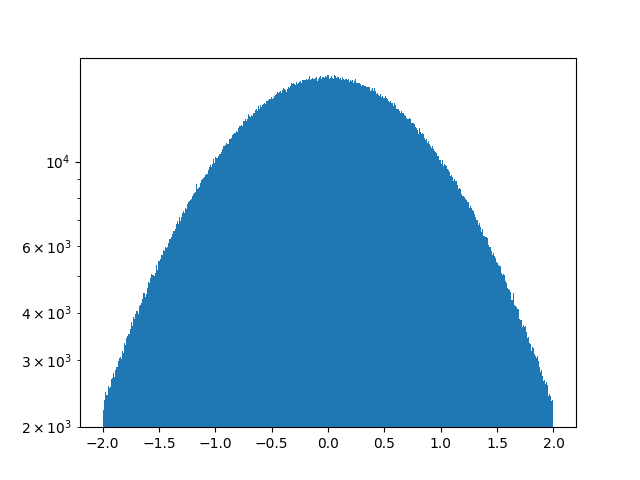
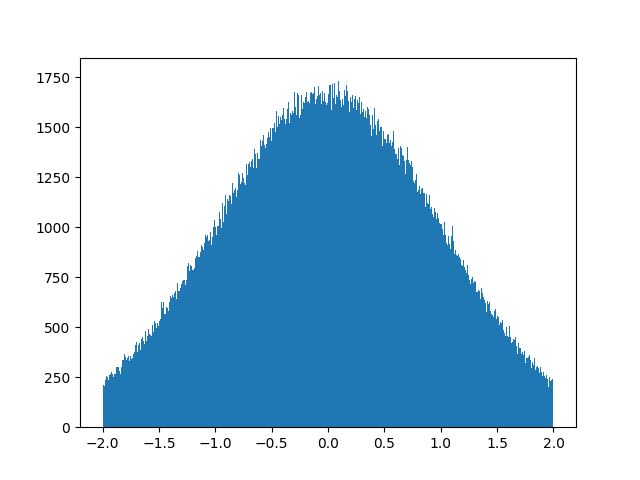
update settings

diff --git a/sumOfUniforms.py b/sumOfUniforms.py
@@ -7,7 +7,7 @@ import math
 import tensorflow as tf
 import matplotlib.pyplot as plt
 
-sampleSize = tf.TensorShape(10000000)
+sampleSize = tf.TensorShape(1000000)
 numUniforms = 12  #The number of uniforms to sum
 uniformSum = tf.zeros(sampleSize)
 for _ in range(numUniforms):
@@ -15,5 +15,5 @@ for _ in range(numUniforms):
 uniformSum = uniformSum - (numUniforms/2)
 
 plt.hist(uniformSum.numpy(), bins=1000)
-plt.yscale('log')
+#plt.yscale('log')
 plt.savefig(f"results/{os.path.basename(__file__)}.png")

diff --git a/boxMullerTransform.py b/boxMullerTransform.py
@@ -7,11 +7,11 @@ import math
 import tensorflow as tf
 import matplotlib.pyplot as plt
 
-sampleSize = tf.TensorShape(10000000)
+sampleSize = tf.TensorShape(1000000)
 u1 = tf.random.uniform(sampleSize, dtype=tf.float32)
 u2 = tf.random.uniform(sampleSize, dtype=tf.float32)
 z0 = tf.sqrt(-2*tf.math.log(u1))*tf.cos(2*math.pi*u2)
 
 plt.hist(z0.numpy(), bins=1000)
-plt.yscale('log')
+#plt.yscale('log')
 plt.savefig(f"results/{os.path.basename(__file__)}.png")

diff --git a/tfRandomTruncatedNormal.py b/tfRandomTruncatedNormal.py
@@ -6,9 +6,9 @@ import math
 import tensorflow as tf
 import matplotlib.pyplot as plt
 
-sampleSize = tf.TensorShape(10000000)
+sampleSize = tf.TensorShape(1000000)
 sample = tf.random.truncated_normal(sampleSize)
 
 plt.hist(sample.numpy(), bins=1000)
-plt.yscale('log')
+#plt.yscale('log')
 plt.savefig(f"results/{os.path.basename(__file__)}.png")

diff --git a/tfRandomNormal.py b/tfRandomNormal.py
@@ -5,9 +5,9 @@ import math
 import tensorflow as tf
 import matplotlib.pyplot as plt
 
-sampleSize = tf.TensorShape(10000000)
+sampleSize = tf.TensorShape(1000000)
 sample = tf.random.normal(sampleSize)
 
 plt.hist(sample.numpy(), bins=1000)
-plt.yscale('log')
+#plt.yscale('log')
 plt.savefig(f"results/{os.path.basename(__file__)}.png")
